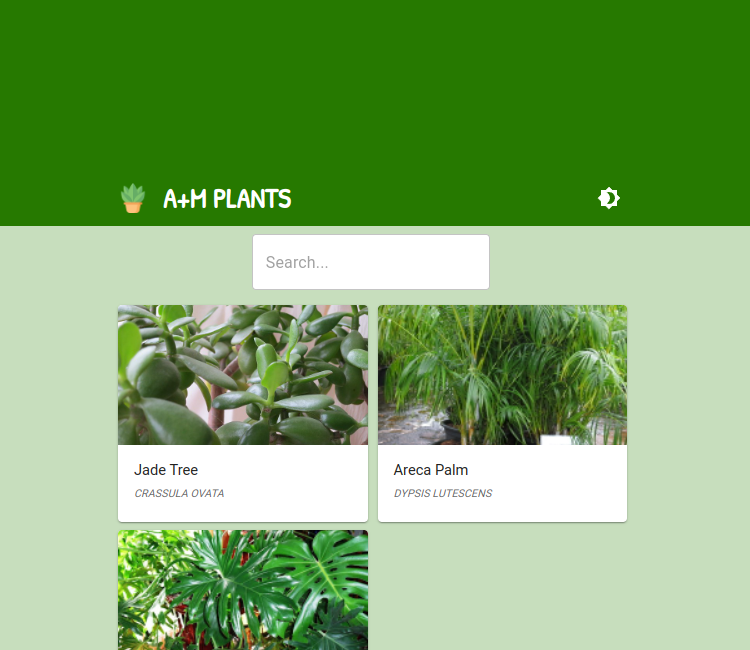
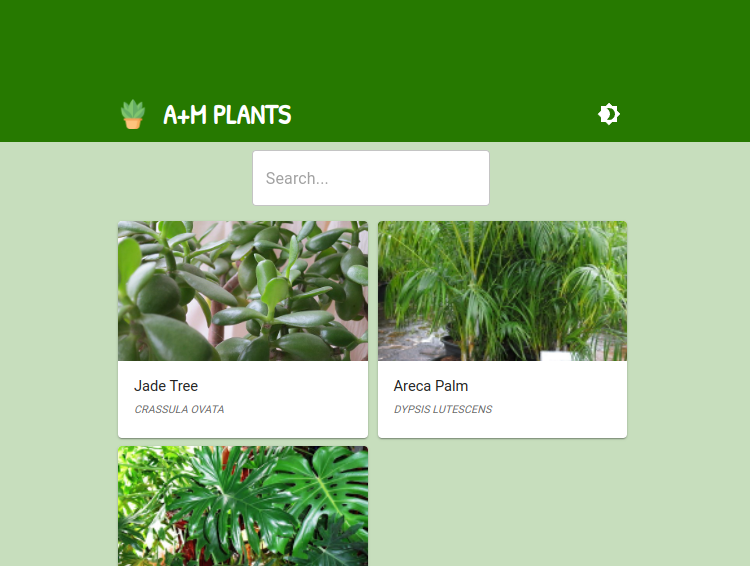
update: improve portfolio cards aspect

diff --git a/src/components/PortfolioCard-mui.jsx b/src/components/PortfolioCard-mui.jsx
@@ -6,7 +6,7 @@ import CardMedia from '@mui/material/CardMedia';
 import Typography from '@mui/material/Typography';
 import IconButton from '@mui/material/IconButton';
 import Link from '@mui/material/Link';
-import { CardActionArea } from '@mui/material';
+import { Box, CardActionArea } from '@mui/material';
 
 import OpenInNewIcon from '@mui/icons-material/OpenInNew';
 import GitHubIcon from '@mui/icons-material/GitHub';
@@ -29,29 +29,24 @@ const PortfolioCard = (props) => {
     );
    
     return (
+        <>
         <Card key={'portfolio-card-' + props.data.id} sx={{
             width: 320,
-            height: 340,
             backgroundColor: '#091522',
             '&:hover': {
-                width: 325,
-                height: 345,
+                
             },
-            transition: 'width 0.5s, height 0.5s'
             }}>
 
         <CardActionArea href={props.data.links[0][0]} target="_blank" rel="noreferrer">
             <CardMedia
                 component="img"
-                height="140"
+                height="160"
                 image={require("../img/portfolio/" + props.data.img)}
                 alt={props.data.alt}
             />
-            <CardContent sx={{
-                height: '110px'
-            }}
-                
-            >
+
+            <CardContent sx={{height: '145px'}}>
                 <Typography gutterBottom variant="h5" component="div">
                     {props.data.name}
                 </Typography>
@@ -70,7 +65,7 @@ const PortfolioCard = (props) => {
                 {linkIcons}
             </CardActions>
         </Card>
-
+        </>
     )
 }
 
